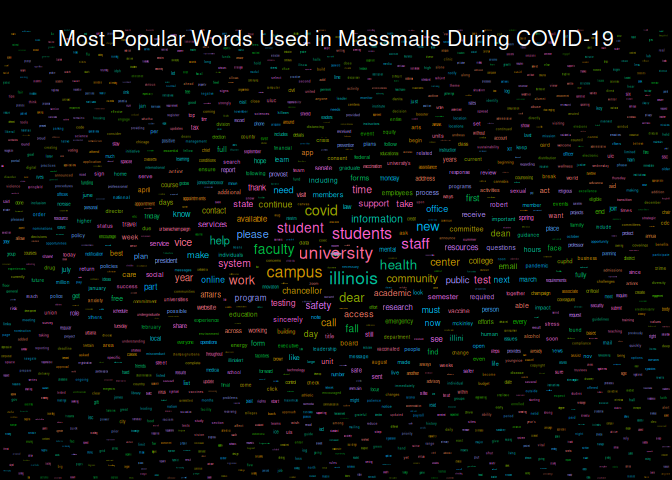
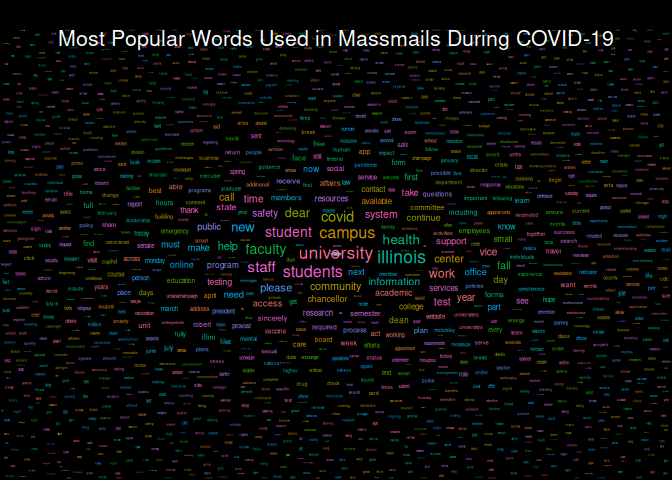
Re-build README.Rmd and Graphs

Changed region(s): [[0.0, 0.0625, 1.0, 1.0]]

diff --git a/README.md b/README.md
@@ -18,7 +18,7 @@ The archive may be viewed here:
 
 <https://massmail.illinois.edu/massmailArchive>
 
-Data has **1994** observations and **7** variables:
+Data has **1995** observations and **7** variables:
 
 - `datetime`: Date and time when the email was sent, as an ISO 8601
   timestamp carrying the Urbana-Champaign offset,
@@ -219,15 +219,15 @@ head(most_popular_words, 10) %>%
 | word        | freq |
 |:------------|-----:|
 | university  | 2760 |
-| students    | 2235 |
-| campus      | 1954 |
-| illinois    | 1934 |
-| student     | 1428 |
-| faculty     | 1275 |
-| health      | 1186 |
-| community   | 1175 |
+| students    | 2236 |
+| campus      | 1959 |
+| illinois    | 1944 |
+| student     | 1430 |
+| faculty     | 1276 |
+| health      | 1187 |
+| community   | 1176 |
 | information | 1146 |
-| staff       | 1116 |
+| staff       | 1117 |
 
 #### Wordcloud
 
